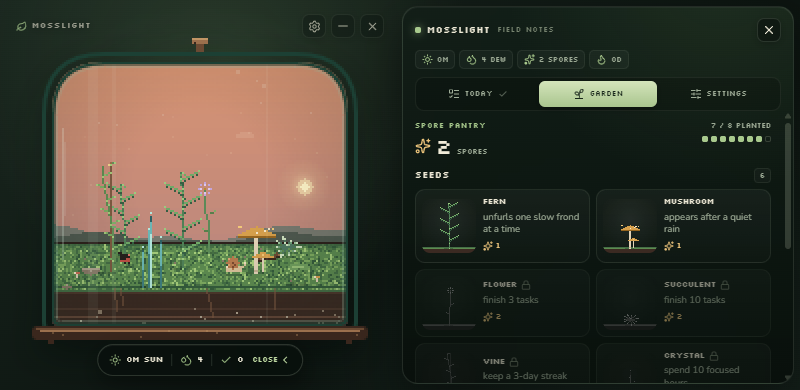
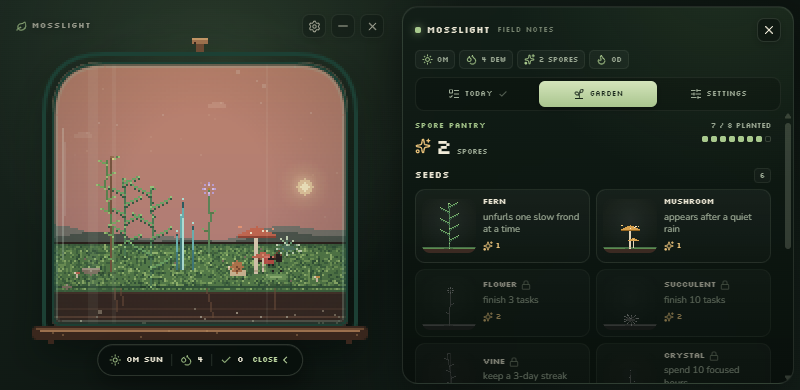
Tighten shelf decor and fix scaled life edge cases
Deepen the shelf ground cover, enlarge hanging vines, and keep the crystal height estimate honest at night so scaled plants never clip the glass. Refresh the README screenshots.

diff --git a/src/lib/scene.ts b/src/lib/scene.ts
@@ -805,6 +805,7 @@ export function drawJar(
   drawWorld(ctx, state, now, inner.x, inner.y, inner.w, inner.h, 1, opts, 0.68, {
     plantScale: 1.2,
     creatureScale: 1.5,
+    soilShade: 'rgba(7, 20, 14, 0.07)',
   });
   drawGlass(ctx, inner.x, inner.y, inner.w, inner.h, 26, 4, 1);
   ctx.restore();
@@ -883,9 +884,9 @@ function drawShelfDetails(
   now: number,
   opts: SceneOptions,
 ): void {
-  const s = Math.max(2, Math.round(detail * 1.35));
+  const s = Math.max(2, Math.round(detail * 1.4));
   const sway = opts.motion ? Math.sin(now * 0.0011) : 0;
-  const count = Math.max(28, Math.round(w / 28));
+  const count = Math.max(36, Math.round(w / 18));
 
   for (let index = 0; index < count; index += 1) {
     const dx = Math.round(x + hash2(index, 2, 131) * w);
@@ -893,77 +894,106 @@ function drawShelfDetails(
     const dy = Math.round(y + h * (horizon + 0.014 + depth * 0.16));
     const kind = hash2(index, 11, 131);
     const drift = Math.round(sway * (1 + depth * 2));
+    const shadowW = (2 + Math.round(hash2(index, 17, 131) * 3)) * s;
+    rect(
+      ctx,
+      dx - Math.round(shadowW / 2),
+      dy,
+      shadowW,
+      1,
+      'rgba(8, 24, 16, 0.32)',
+    );
 
-    if (kind < 0.32) {
+    if (kind < 0.3) {
       // A grass tuft: the missing mid-scale between moss and plants.
       const blades = 3 + Math.floor(hash2(index, 13, 131) * 4);
       for (let blade = 0; blade < blades; blade += 1) {
-        const bx = dx + Math.round((blade - blades / 2) * s * 0.7);
-        const bh = (3 + Math.round(hash2(index, blade + 3, 17) * 5)) * s;
+        const bx = dx + Math.round((blade - blades / 2) * s * 0.8);
+        const bh = (4 + Math.round(hash2(index, blade + 3, 17) * 5)) * s;
         for (let step = 0; step < bh; step += 1) {
+          const color =
+            step >= bh - 1
+              ? P.moss.sun
+              : step < s
+                ? P.moss.deep
+                : step % 3 === 0
+                  ? P.moss.light
+                  : P.moss.dark;
           px(
             ctx,
             bx + Math.round((drift * step) / Math.max(1, bh)),
-            dy - step,
-            step === bh - 1
-              ? P.moss.bright
-              : step % 3 === 0
-                ? P.moss.light
-                : P.moss.dark,
+            dy - 1 - step,
+            color,
           );
         }
       }
-    } else if (kind < 0.48) {
+    } else if (kind < 0.46) {
       // Clover.
-      const leaves = 3 + Math.floor(hash2(index, 3, 139) * 3);
+      const leaves = 4 + Math.floor(hash2(index, 3, 139) * 4);
       for (let leaf = 0; leaf < leaves; leaf += 1) {
-        const lx = dx + Math.round((hash2(index, leaf + 5, 139) - 0.5) * 7 * s);
-        const ly = dy - Math.round(hash2(index, leaf + 9, 139) * 3 * s);
-        px(ctx, lx, ly, P.moss.light);
-        px(ctx, lx + 1, ly, P.moss.bright);
-        px(ctx, lx, ly - 1, P.moss.mid);
+        const lx = dx + Math.round((hash2(index, leaf + 5, 139) - 0.5) * 9 * s);
+        const ly = dy - 1 - Math.round(hash2(index, leaf + 9, 139) * 3 * s);
+        px(ctx, lx, ly, P.moss.bright);
+        px(ctx, lx + 1, ly, P.moss.sun);
+        px(ctx, lx, ly - 1, P.moss.light);
+        if (leaf % 2 === 0) px(ctx, lx - 1, ly, P.moss.dark);
       }
-    } else if (kind < 0.6) {
+    } else if (kind < 0.58) {
       // Pebble.
-      const pw = (1 + Math.round(hash2(index, 4, 149) * 2)) * s;
-      pixelEllipse(ctx, dx, dy, pw, Math.max(1, Math.round(pw * 0.55)), P.soil.pebble);
+      const pw = (2 + Math.round(hash2(index, 4, 149) * 3)) * s;
+      pixelEllipse(ctx, dx, dy - 1, pw, Math.max(1, Math.round(pw * 0.55)), P.soil.pebble);
       px(ctx, dx - Math.round(pw / 2), dy - 1, P.soil.pebbleLight);
-    } else if (kind < 0.76) {
+      px(ctx, dx + Math.round(pw / 2) - 1, dy - 1, P.soil.pebbleLight);
+    } else if (kind < 0.74) {
       // Button mushrooms.
-      const pair = hash2(index, 6, 151) > 0.7 ? 2 : 1;
+      const pair = hash2(index, 6, 151) > 0.75 ? 2 : 1;
       for (let m = 0; m < pair; m += 1) {
-        const mx = dx + m * 4 * s;
-        const mh = (2 + Math.round(hash2(index, m + 2, 151) * 3)) * s;
-        rect(ctx, mx, dy - mh, Math.max(1, s - 1), mh, P.mushroom.stem);
-        const capW = (3 + Math.round(hash2(index, m + 7, 151) * 3)) * s;
-        rect(
-          ctx,
-          mx - Math.floor(capW / 2),
-          dy - mh - s,
-          capW,
-          Math.max(1, s - 1),
-          P.mushroom.cap,
-        );
-        px(ctx, mx, dy - mh - s, P.mushroom.capLight);
+        const mx = dx + m * 5 * s;
+        const mh = (3 + Math.round(hash2(index, m + 2, 151) * 3)) * s;
+        const stemW = Math.max(1, s - 1);
+        rect(ctx, mx, dy - 1 - mh, stemW, mh, P.mushroom.stem);
+        rect(ctx, mx, dy - 2, stemW, 1, P.mushroom.stemShade);
+        const capW = (4 + Math.round(hash2(index, m + 7, 151) * 4)) * s;
+        const capH = Math.max(2, s);
+        for (let row = 0; row < capH; row += 1) {
+          const rowW = Math.max(
+            1,
+            capW - (capH - 1 - row) * Math.max(1, Math.round(s * 0.6)),
+          );
+          rect(
+            ctx,
+            mx - Math.floor(rowW / 2),
+            dy - 1 - mh - capH + row,
+            rowW,
+            1,
+            row === 0 ? P.mushroom.capLight : row === capH - 1 ? P.mushroom.capDark : P.mushroom.cap,
+          );
+        }
       }
     } else if (kind < 0.88) {
       // Tiny flower.
-      const fh = (2 + Math.round(hash2(index, 8, 157) * 3)) * s;
+      const fh = (3 + Math.round(hash2(index, 8, 157) * 3)) * s;
       for (let step = 0; step < fh; step += 1) {
-        px(ctx, dx, dy - step, P.flower.stem);
+        px(ctx, dx, dy - 1 - step, P.flower.leafDark);
       }
-      const petal = Math.max(1, s - 1);
+      const py = dy - 1 - fh;
       const color = hash2(index, 2, 157) > 0.5 ? P.flower.cream : P.flower.pinkLight;
-      px(ctx, dx, dy - fh - petal, color);
-      px(ctx, dx - petal, dy - fh, color);
-      px(ctx, dx + petal, dy - fh, color);
-      px(ctx, dx, dy - fh, P.flower.center);
+      const petal = Math.max(1, s - 1);
+      px(ctx, dx, py, P.flower.center);
+      px(ctx, dx - petal, py, color);
+      px(ctx, dx + petal, py, color);
+      px(ctx, dx, py - petal, color);
+      px(ctx, dx, py + 1, color);
+      if (petal > 1) {
+        px(ctx, dx - 1, py - 1, color);
+        px(ctx, dx + 1, py - 1, color);
+      }
     } else {
       // Fallen twig or leaf.
       const lw = (2 + Math.round(hash2(index, 5, 163) * 3)) * s;
-      pixelLine(ctx, dx - lw, dy, dx + lw, dy - Math.max(1, s - 1), P.wood.mid);
-      px(ctx, dx + lw, dy - Math.max(1, s - 1), P.wood.light);
-      px(ctx, dx - lw, dy, P.wood.dark);
+      pixelLine(ctx, dx - lw, dy - 1, dx + lw, dy - 2 - Math.max(1, s - 1), P.wood.mid);
+      px(ctx, dx + lw, dy - 2 - Math.max(1, s - 1), P.wood.light);
+      px(ctx, dx - lw, dy - 1, P.wood.dark);
     }
   }
 }
@@ -977,27 +1007,31 @@ function drawShelfVines(
   now: number,
   opts: SceneOptions,
 ): void {
-  const count = Math.max(5, Math.round(w / 145));
+  const count = Math.max(6, Math.round(w / 120));
   const sway = opts.motion ? Math.sin(now * 0.0007) * 0.7 : 0;
+  const vineScale = 1.3;
+  const time = opts.motion ? now * 0.00025 : 0;
+  const thick = detail > 1 ? 2 : 1;
+  const leaf = Math.max(1, Math.round(detail * 1.3));
 
   for (let index = 0; index < count; index += 1) {
     const baseX =
-      ((index + 0.4) / count) * w + (hash2(index, 3, 171) - 0.5) * 22 * detail;
+      ((index + 0.4) / count) * w + (hash2(index, 3, 171) - 0.5) * 26 * detail;
     const length = Math.min(
       glassH - 2,
-      Math.round((7 + hash2(index, 7, 171) * 21) * detail),
+      Math.round((7 + hash2(index, 7, 171) * 21) * detail * vineScale),
     );
 
     for (let step = 0; step < length; step += 1) {
       const vx =
         baseX +
-        Math.sin(step * 0.17 + index * 1.7 + now * 0.00025) * 1.6 * detail +
+        Math.sin(step * 0.17 + index * 1.7 + time) * 1.6 * detail * vineScale +
         (sway * step) / Math.max(1, length);
-      px(ctx, Math.round(vx), step, step % 6 === 0 ? P.vine.light : P.vine.stem);
+      rect(ctx, Math.round(vx), step, thick, 1, step % 6 === 0 ? P.vine.light : P.vine.stem);
       if (step > 2 && step % 5 === 0) {
         const side = step % 10 === 0 ? 1 : -1;
-        px(ctx, Math.round(vx) + side * detail, step, P.vine.leaf);
-        px(ctx, Math.round(vx) + side * 2 * detail, step, P.vine.light);
+        px(ctx, Math.round(vx) + side * leaf, step, P.vine.leaf);
+        px(ctx, Math.round(vx) + side * leaf * 2, step, P.vine.light);
       }
     }
   }

diff --git a/src/lib/plants.ts b/src/lib/plants.ts
@@ -40,7 +40,8 @@ function plantTopUnits(plant: Plant): number {
     case 'vine':
       return 8 + 48 * g;
     case 'crystal':
-      return 5 + 27 * g;
+      // Tallest shard plus the glow that blooms above it at night.
+      return 7 + 27 * g;
     default:
       return 4;
   }
